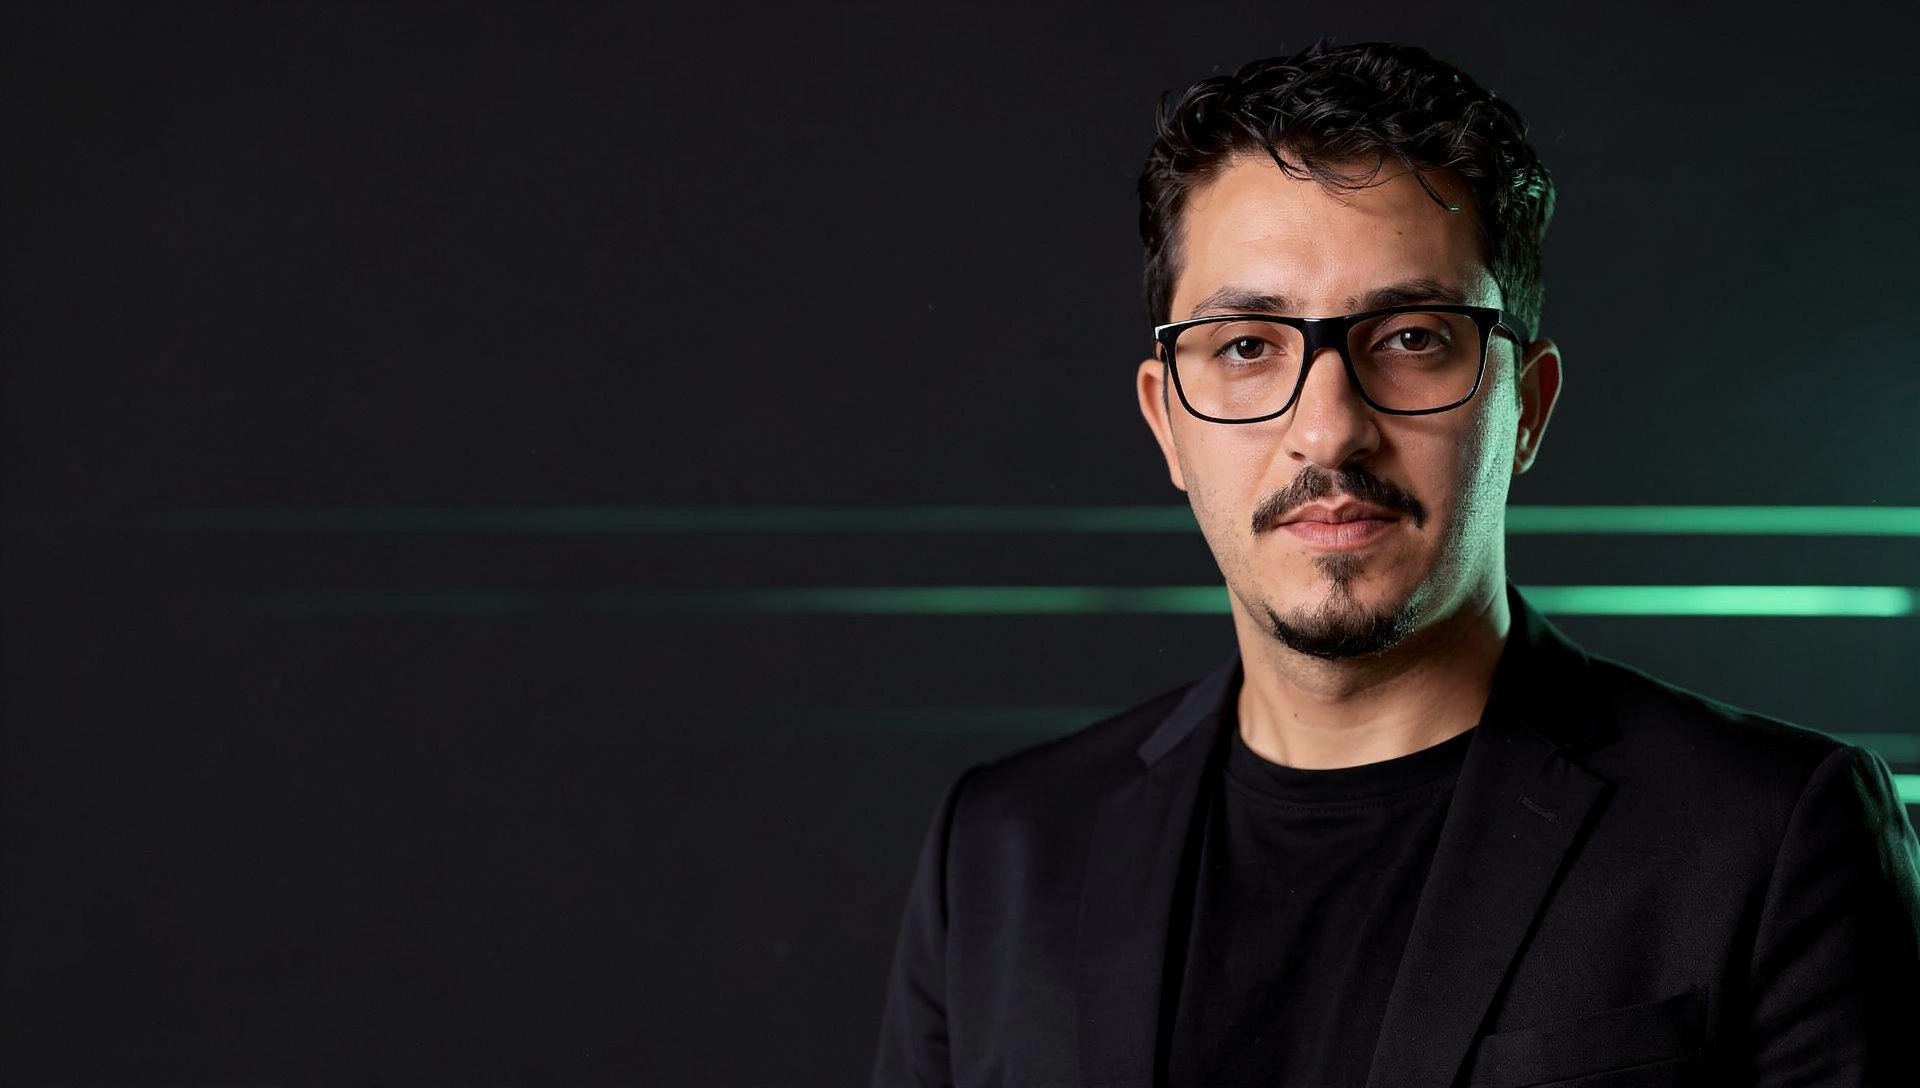
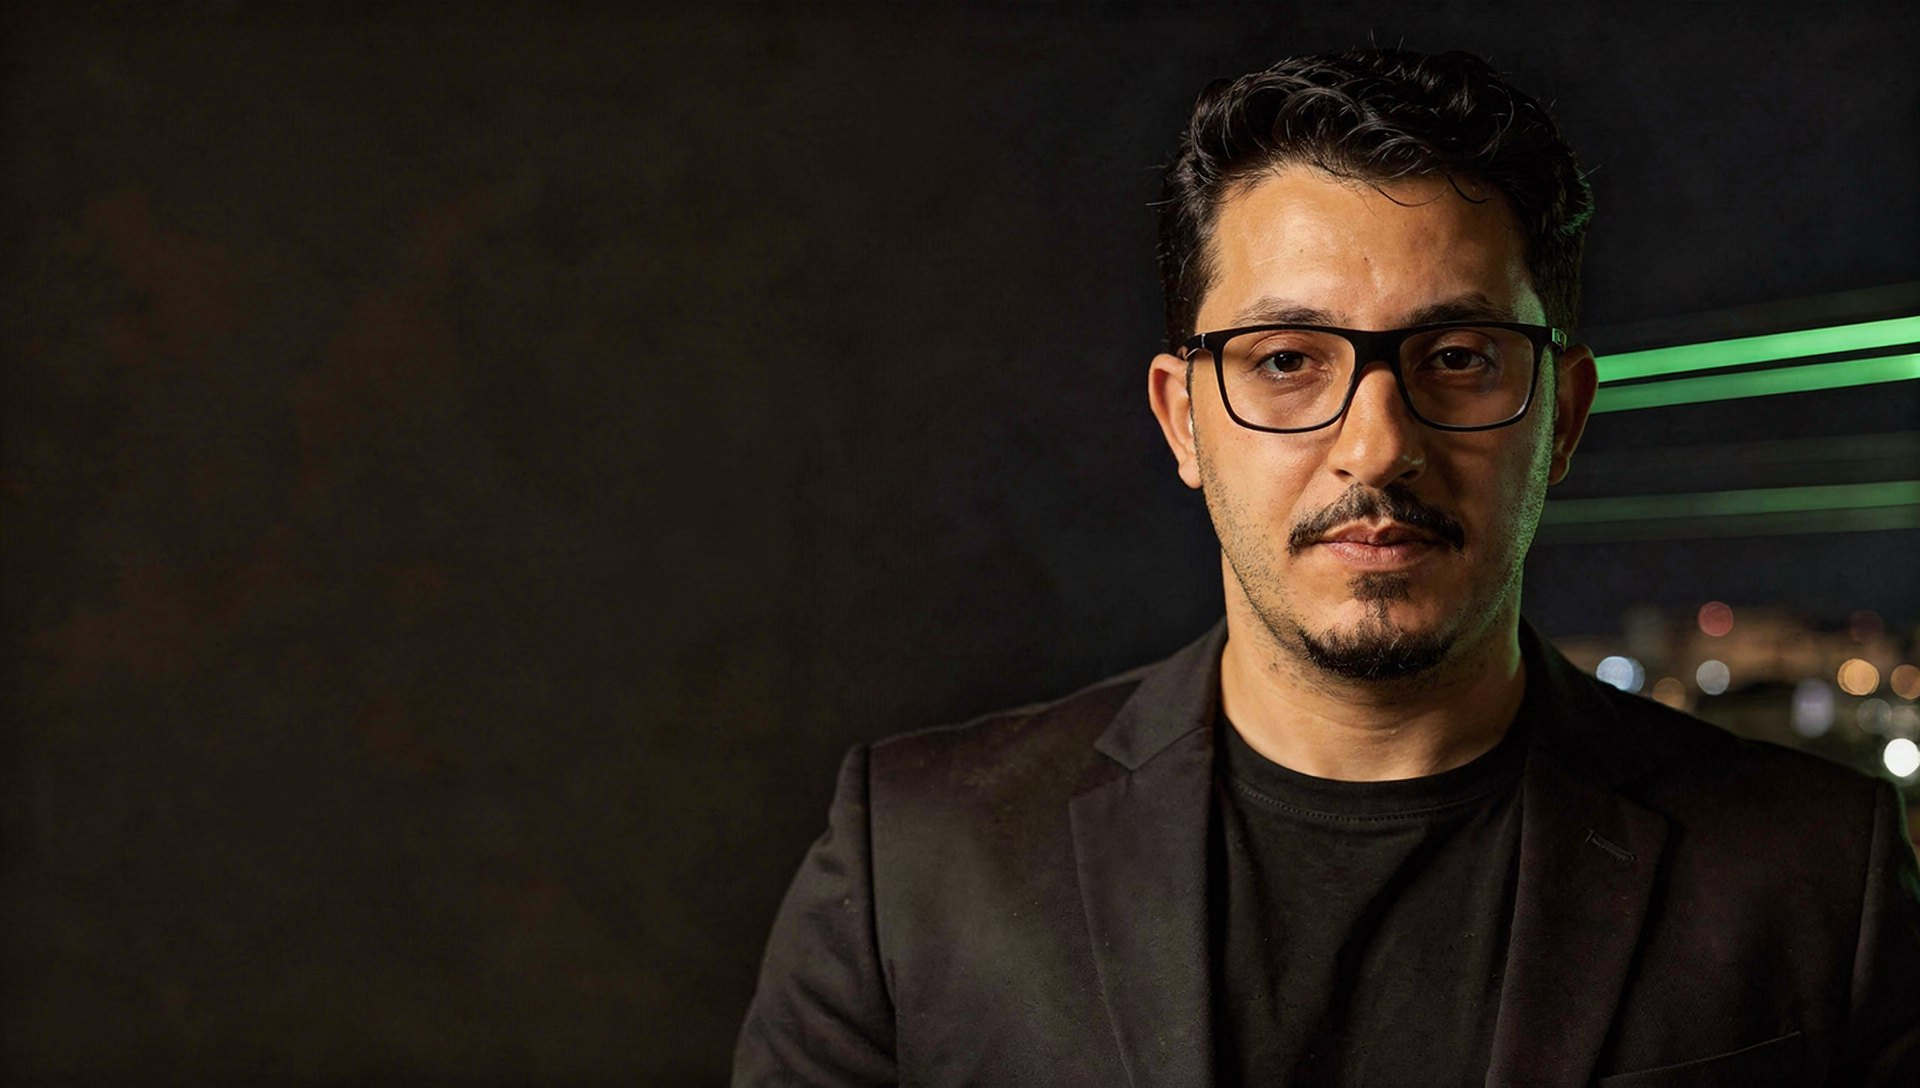
assets: visuals v3 — closer likeness, dark circles retouched
V01–V05 and V08 regenerated with Flux 2 Pro from six of Riyad's real photos
(4 face close-ups + 2 full shots; the retouched kit headshot is no longer a
reference), then an under-eye retouch pass on each that only removes the
dark circles. Rejected: Apple logo on the laptop, two phones / an extra
hand, retouches that added skin spots or pink/blue light. All visuals stay
approved:false pending Riyad's likeness sign-off.

Changed region(s): [[0.375, 0.0312, 1.0, 1.0], [0.7812, 0.8438, 0.8125, 0.9375], [0.75, 0.9375, 0.7812, 1.0]]

diff --git a/src/lib/brand.ts b/src/lib/brand.ts
@@ -103,12 +103,16 @@ export const BRAND = {
   /** Quick link 3 — "This week's tool". Max one, always labelled PARTNER. [sponsor URL] */
   partnerLink: null as { label: string; url: string } | null,
 
-  // Brief §2.3 "Trusted by AI teams" — text wordmarks only, no logo images.
-  // [VERIFY] permission to show each name (brief §8).
-  partners: {
-    verified: false,
-    names: ['Moonshot AI · Kimi', 'MiniMax', 'Pollo AI', 'Higgsfield', 'Emergent'],
-  },
+  // "Trusted by AI teams" — shown as logos (Riyad, 13 Oct 2026; MiniMax replaced
+  // by Dreamina). Logos are the brands' own files, never AI-drawn (brief §6.2);
+  // `logo: null` falls back to the name until the official file is supplied.
+  partners: [
+    { name: 'Moonshot AI · Kimi', logo: '/partners/kimi.svg', width: 64, height: 24 },
+    { name: 'Dreamina', logo: null },
+    { name: 'Pollo AI', logo: '/partners/pollo-ai.png', width: 1000, height: 277 },
+    { name: 'Higgsfield', logo: null },
+    { name: 'Emergent', logo: null },
+  ] as ReadonlyArray<{ name: string; logo: string | null; width?: number; height?: number }>,
 
   images: {
     // Kit assets (brief §6.1) live in /public/brand
@@ -121,8 +125,9 @@ export const BRAND = {
   },
 
   /**
-   * Generated visuals (brief §6.2). V01–V05: Flux 2 Pro with five of Riyad's
-   * real photos as references (glasses, hair, beard match); V06: grok-imagine-2.
+   * Generated visuals (brief §6.2). V01–V05 + V08: Flux 2 Pro with six refs of
+   * Riyad's real photos (4 face close-ups + 2 full), then an under-eye retouch
+   * pass (dark circles removed, nothing else changed); V06: grok-imagine-2.
    * `approved` records Riyad's likeness sign-off (brief §6.4 step 1) — flip it
    * per image once approved; nothing here should ship before that.
    */

diff --git a/KETAMI_BRAND_REVIEW.md b/KETAMI_BRAND_REVIEW.md
@@ -269,13 +269,13 @@ Cost rule: estimate first; under $1 per request and $3 total → go; above → a
 ### 6.5 Manifest status (keep this table updated)
 | ID | Status | File | Approved by Riyad |
 |---|---|---|---|
-| V01 | regenerated 13 Oct 2026 with Flux 2 Pro + 5 real reference photos — live as mobile hero | `public/brand/V01_mobile-hero.jpg` | pending |
-| V02 | regenerated (Flux 2) — live on "What I do" card 1; no label on the mic | `public/brand/V02_card-darija.jpg` | pending |
-| V03 | regenerated (Flux 2) — live on "What I do" card 2; handheld phone (no rig), no logo | `public/brand/V03_card-launch.jpg` | pending |
-| V04 | regenerated (Flux 2) — live on "What I do" card 3 (replace with real ECSEL photo when available) | `public/brand/V04_card-talks.jpg` | pending |
-| V05 | regenerated (Flux 2) — live on /about | `public/brand/V05_about-oran.jpg` | pending |
+| V01 | v3 (13 Oct): Flux 2 Pro, 6 real-photo refs (4 face close-ups), editorial framing, under-eye retouch — live as mobile hero | `public/brand/V01_mobile-hero.jpg` | pending |
+| V02 | v3: Flux 2, under-eye retouch — card 1; no logo on laptop, no label on mic | `public/brand/V02_card-darija.jpg` | pending |
+| V03 | v3: Flux 2, under-eye retouch — card 2; single handheld phone, no logo | `public/brand/V03_card-launch.jpg` | pending |
+| V04 | v3: Flux 2 + under-eye retouch — card 3 (replace with a real event photo when available) | `public/brand/V04_card-talks.jpg` | pending |
+| V05 | v3: Flux 2 + under-eye retouch — /about | `public/brand/V05_about-oran.jpg` | pending |
 | V06 | generated (grok) — not placed: the brief asks for a dark texture on the ABB block, which §3.1 makes the light `--paper` section | `public/brand/V06_abb-texture.jpg` | n/a (no person) |
-| V08 | **new slot** — desktop hero (16:9, subject right), Flux 2, so desktop matches mobile; replaces A05 on the site (A05 kept in public/brand) | `public/brand/V08_desktop-hero.jpg` | pending |
+| V08 | **new slot** v3: desktop hero (16:9, subject right), Flux 2 + under-eye retouch; replaces A05 on the site (A05 kept in public/brand) | `public/brand/V08_desktop-hero.jpg` | pending |
 | V07 | not generated (optional; held until stills are approved) | — | — |
 
 ---
